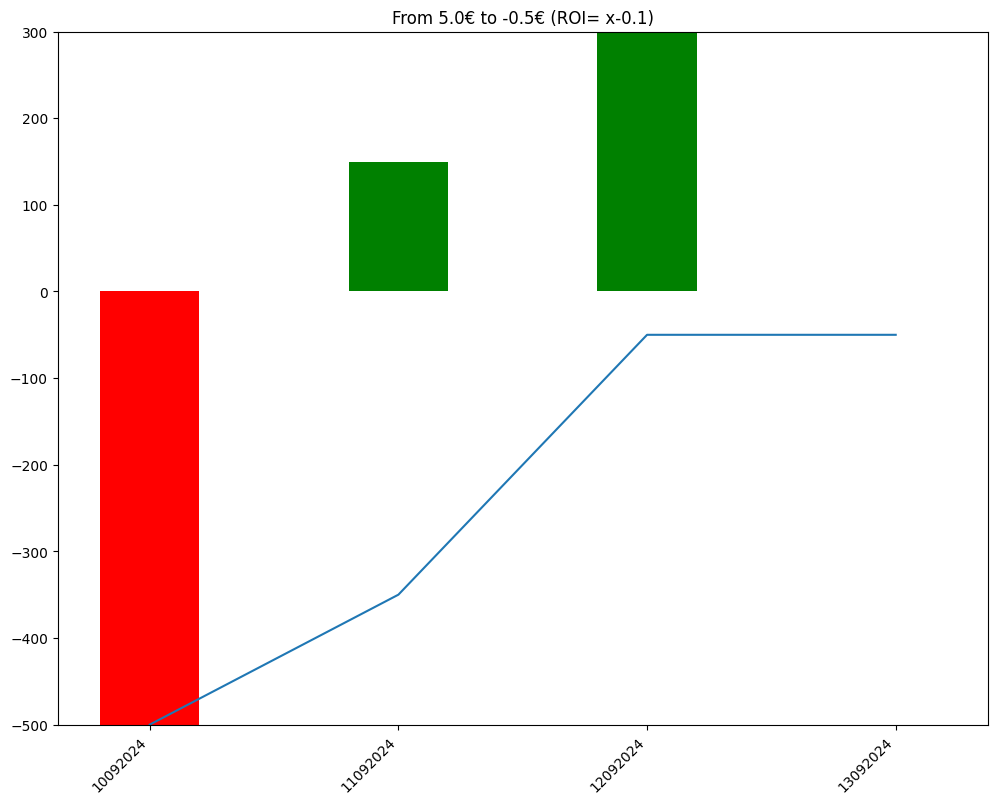
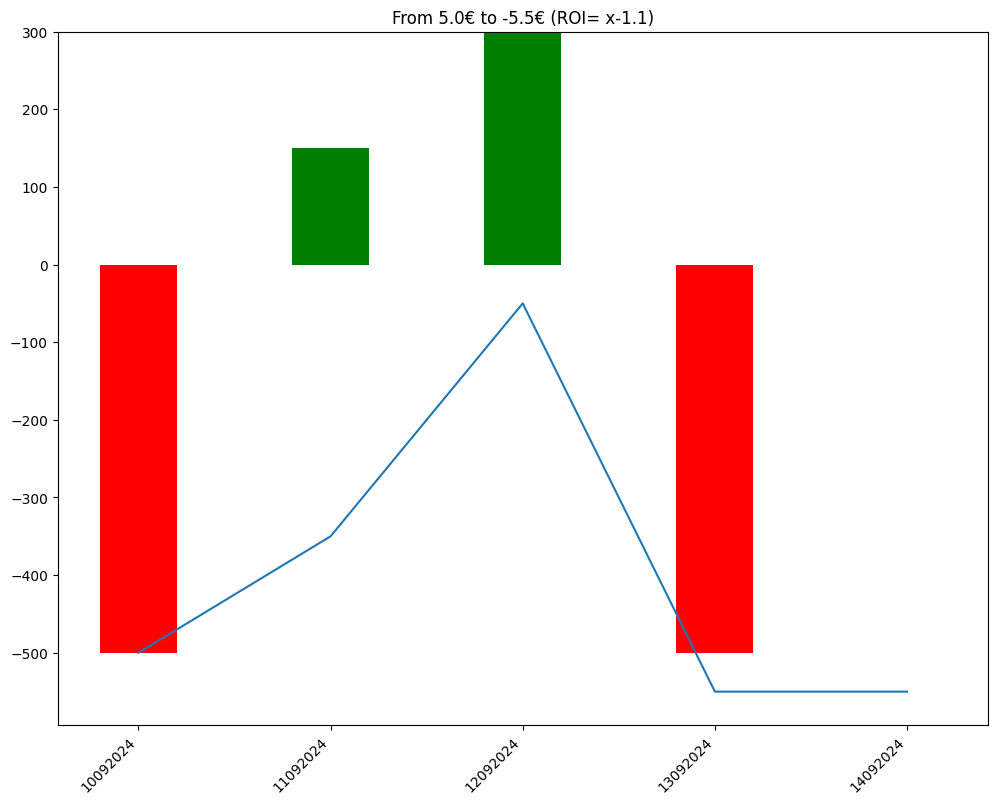
comment from python script

diff --git a/bethistory.html b/bethistory.html
@@ -86,7 +86,8 @@
             En observant la courbe 🤔, on peut avoir une idée visuelle de l'évolution des gains et ainsi évaluer le model utilisé 🧑🏫.
         </p>
         
-        <img src = "/candle.png" alt="candle chart"/><table><tr><td>Chevaux joués</td><td>Gains</td><td>URL Circuits</td></tr><tr><td>1 - KISS ME HONEY</td><td>0</td><td><a href=https://www.pmu.fr/turf/13092024/r5/c5 target="_blank">https://www.pmu.fr/turf/13092024/r5/c5</a></td></tr>
+        <img src = "/candle.png" alt="candle chart"/><table><tr><td>Chevaux joués</td><td>Gains</td><td>URL Circuits</td></tr><tr><td>7 - NOTTE A ROMA</td><td>0</td><td><a href=https://www.pmu.fr/turf/14092024/r2/c2 target="_blank">https://www.pmu.fr/turf/14092024/r2/c2</a></td></tr>
+<tr><td>1 - KISS ME HONEY</td><td>-500</td><td><a href=https://www.pmu.fr/turf/13092024/r5/c5 target="_blank">https://www.pmu.fr/turf/13092024/r5/c5</a></td></tr>
 <tr><td>3 - BENIMARU</td><td>+300</td><td><a href=https://www.pmu.fr/turf/12092024/r1/c4 target="_blank">https://www.pmu.fr/turf/12092024/r1/c4</a></td></tr>
 <tr><td>1 - NARKALA</td><td>+150</td><td><a href=https://www.pmu.fr/turf/11092024/r4/c1 target="_blank">https://www.pmu.fr/turf/11092024/r4/c1</a></td></tr>
 <tr><td>2 - SERENITE DES ROSES</td><td>-500</td><td><a href=https://www.pmu.fr/turf/10092024/r3/c2 target="_blank">https://www.pmu.fr/turf/10092024/r3/c2</a></td></tr>
